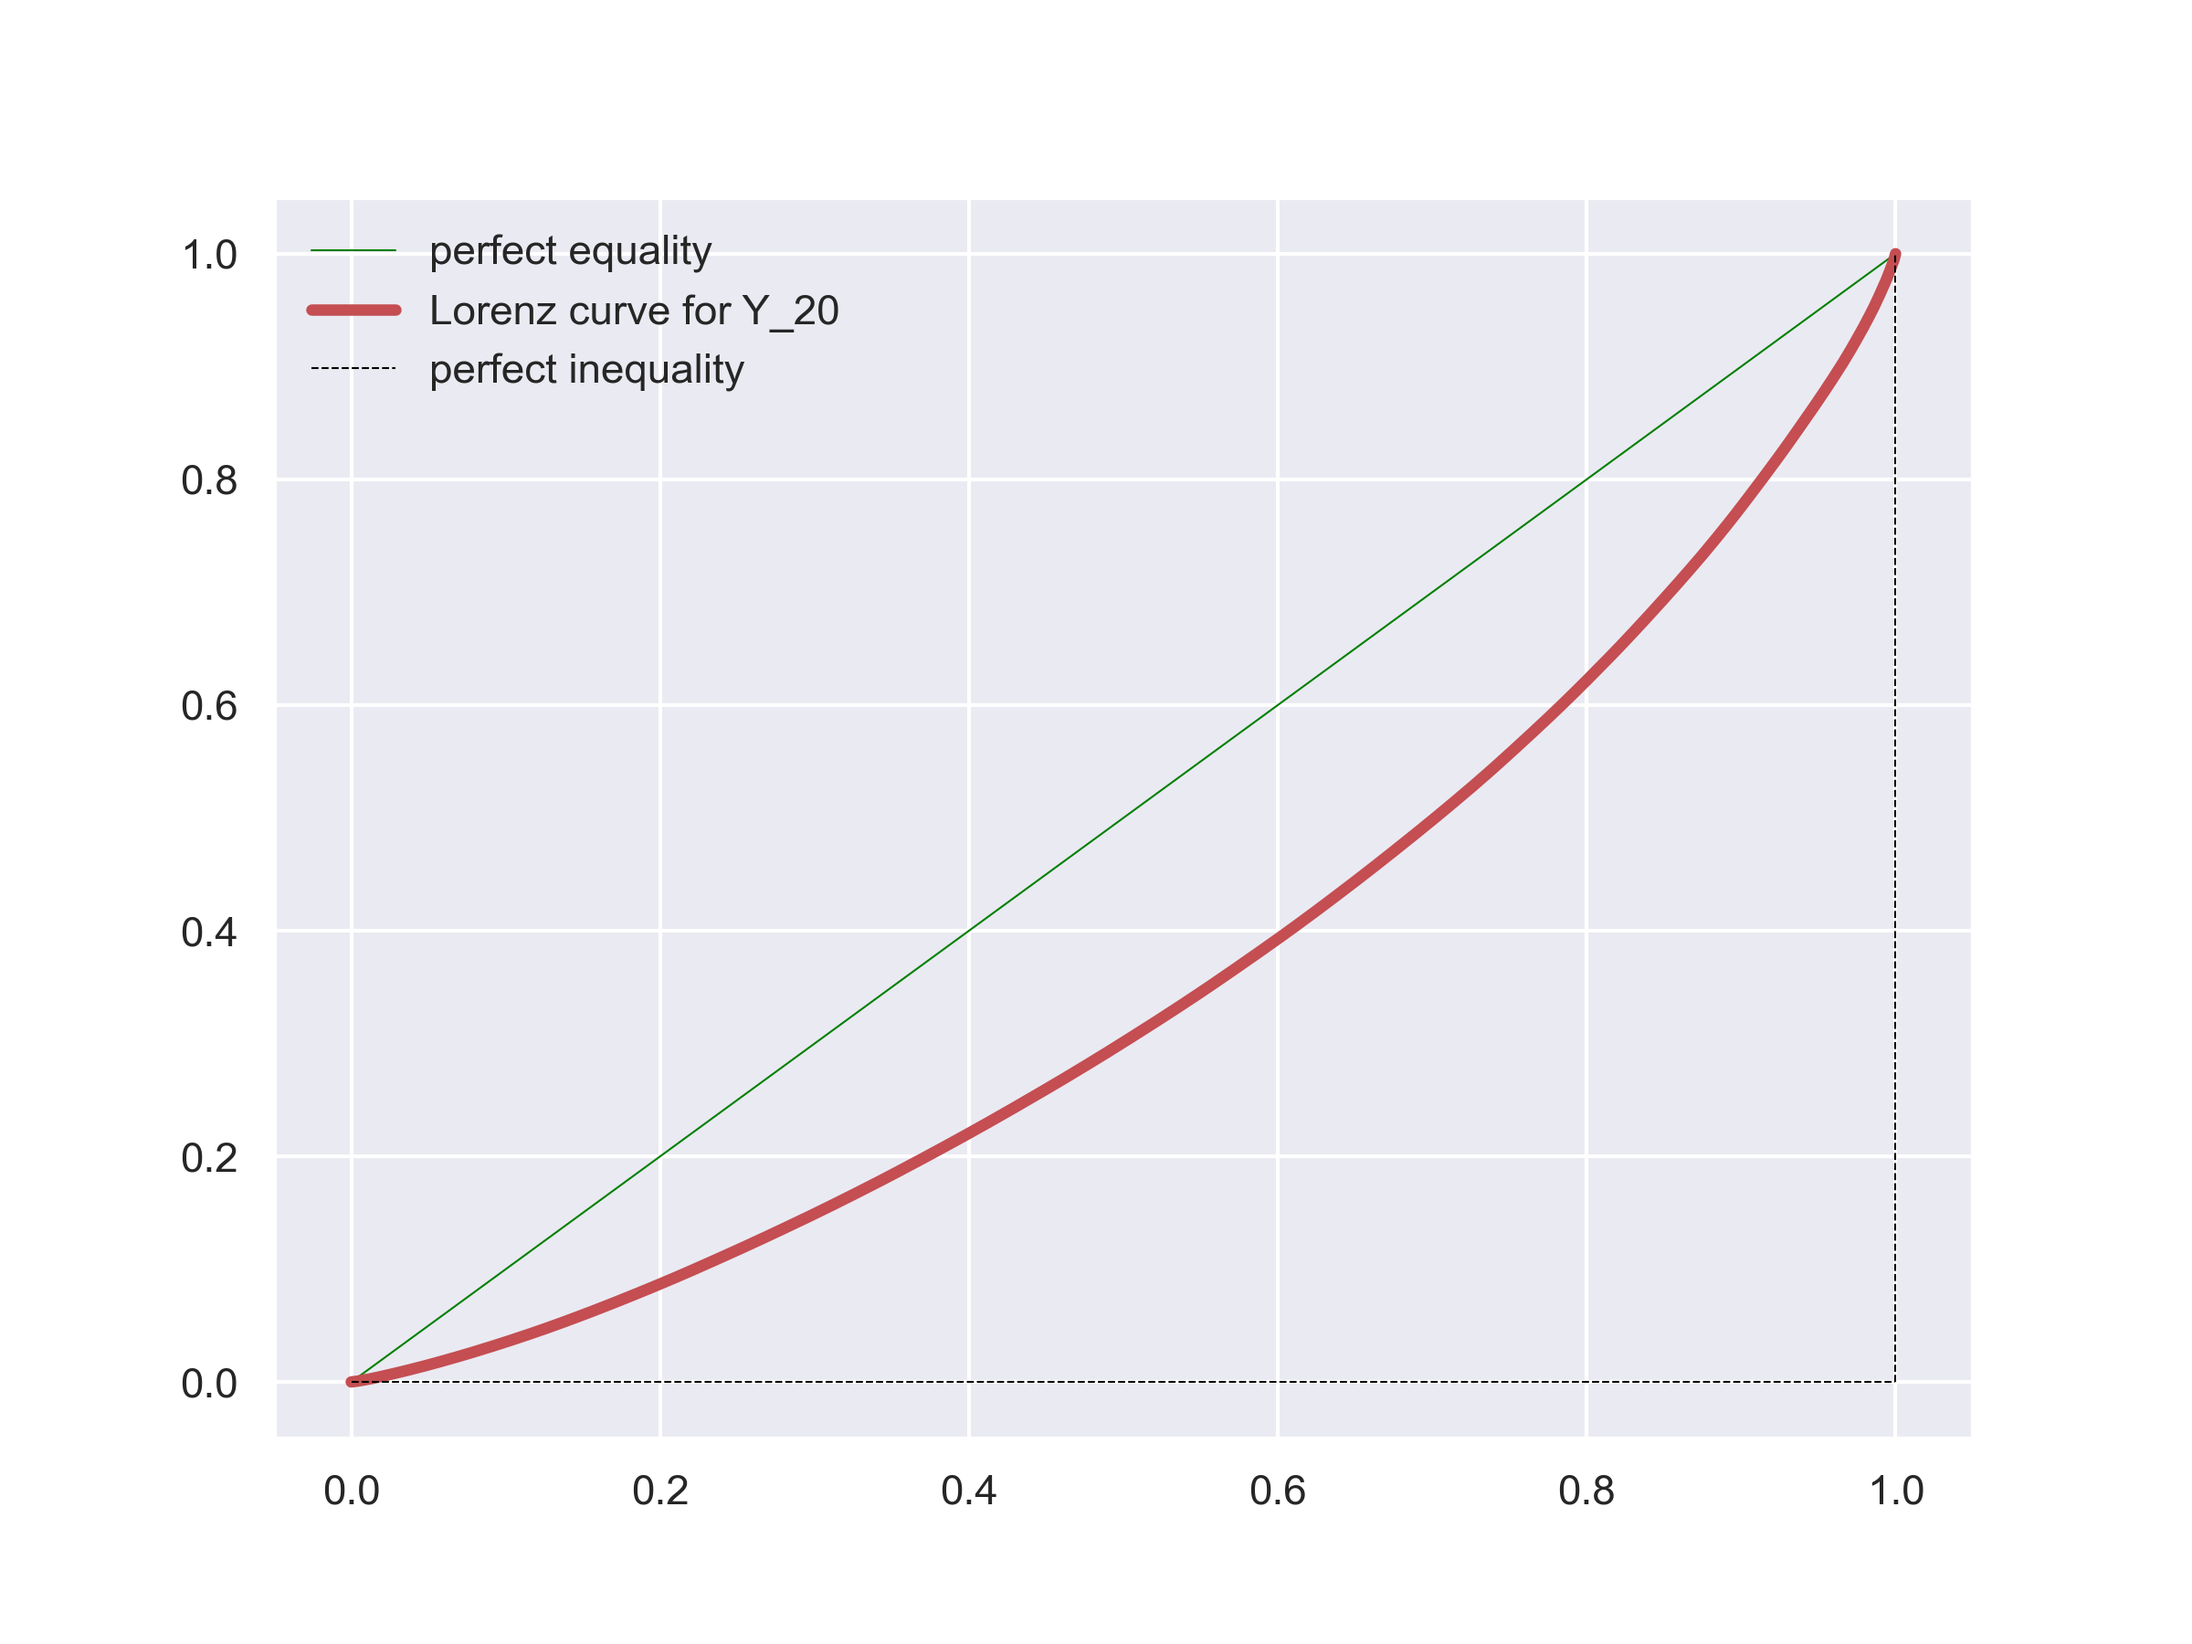
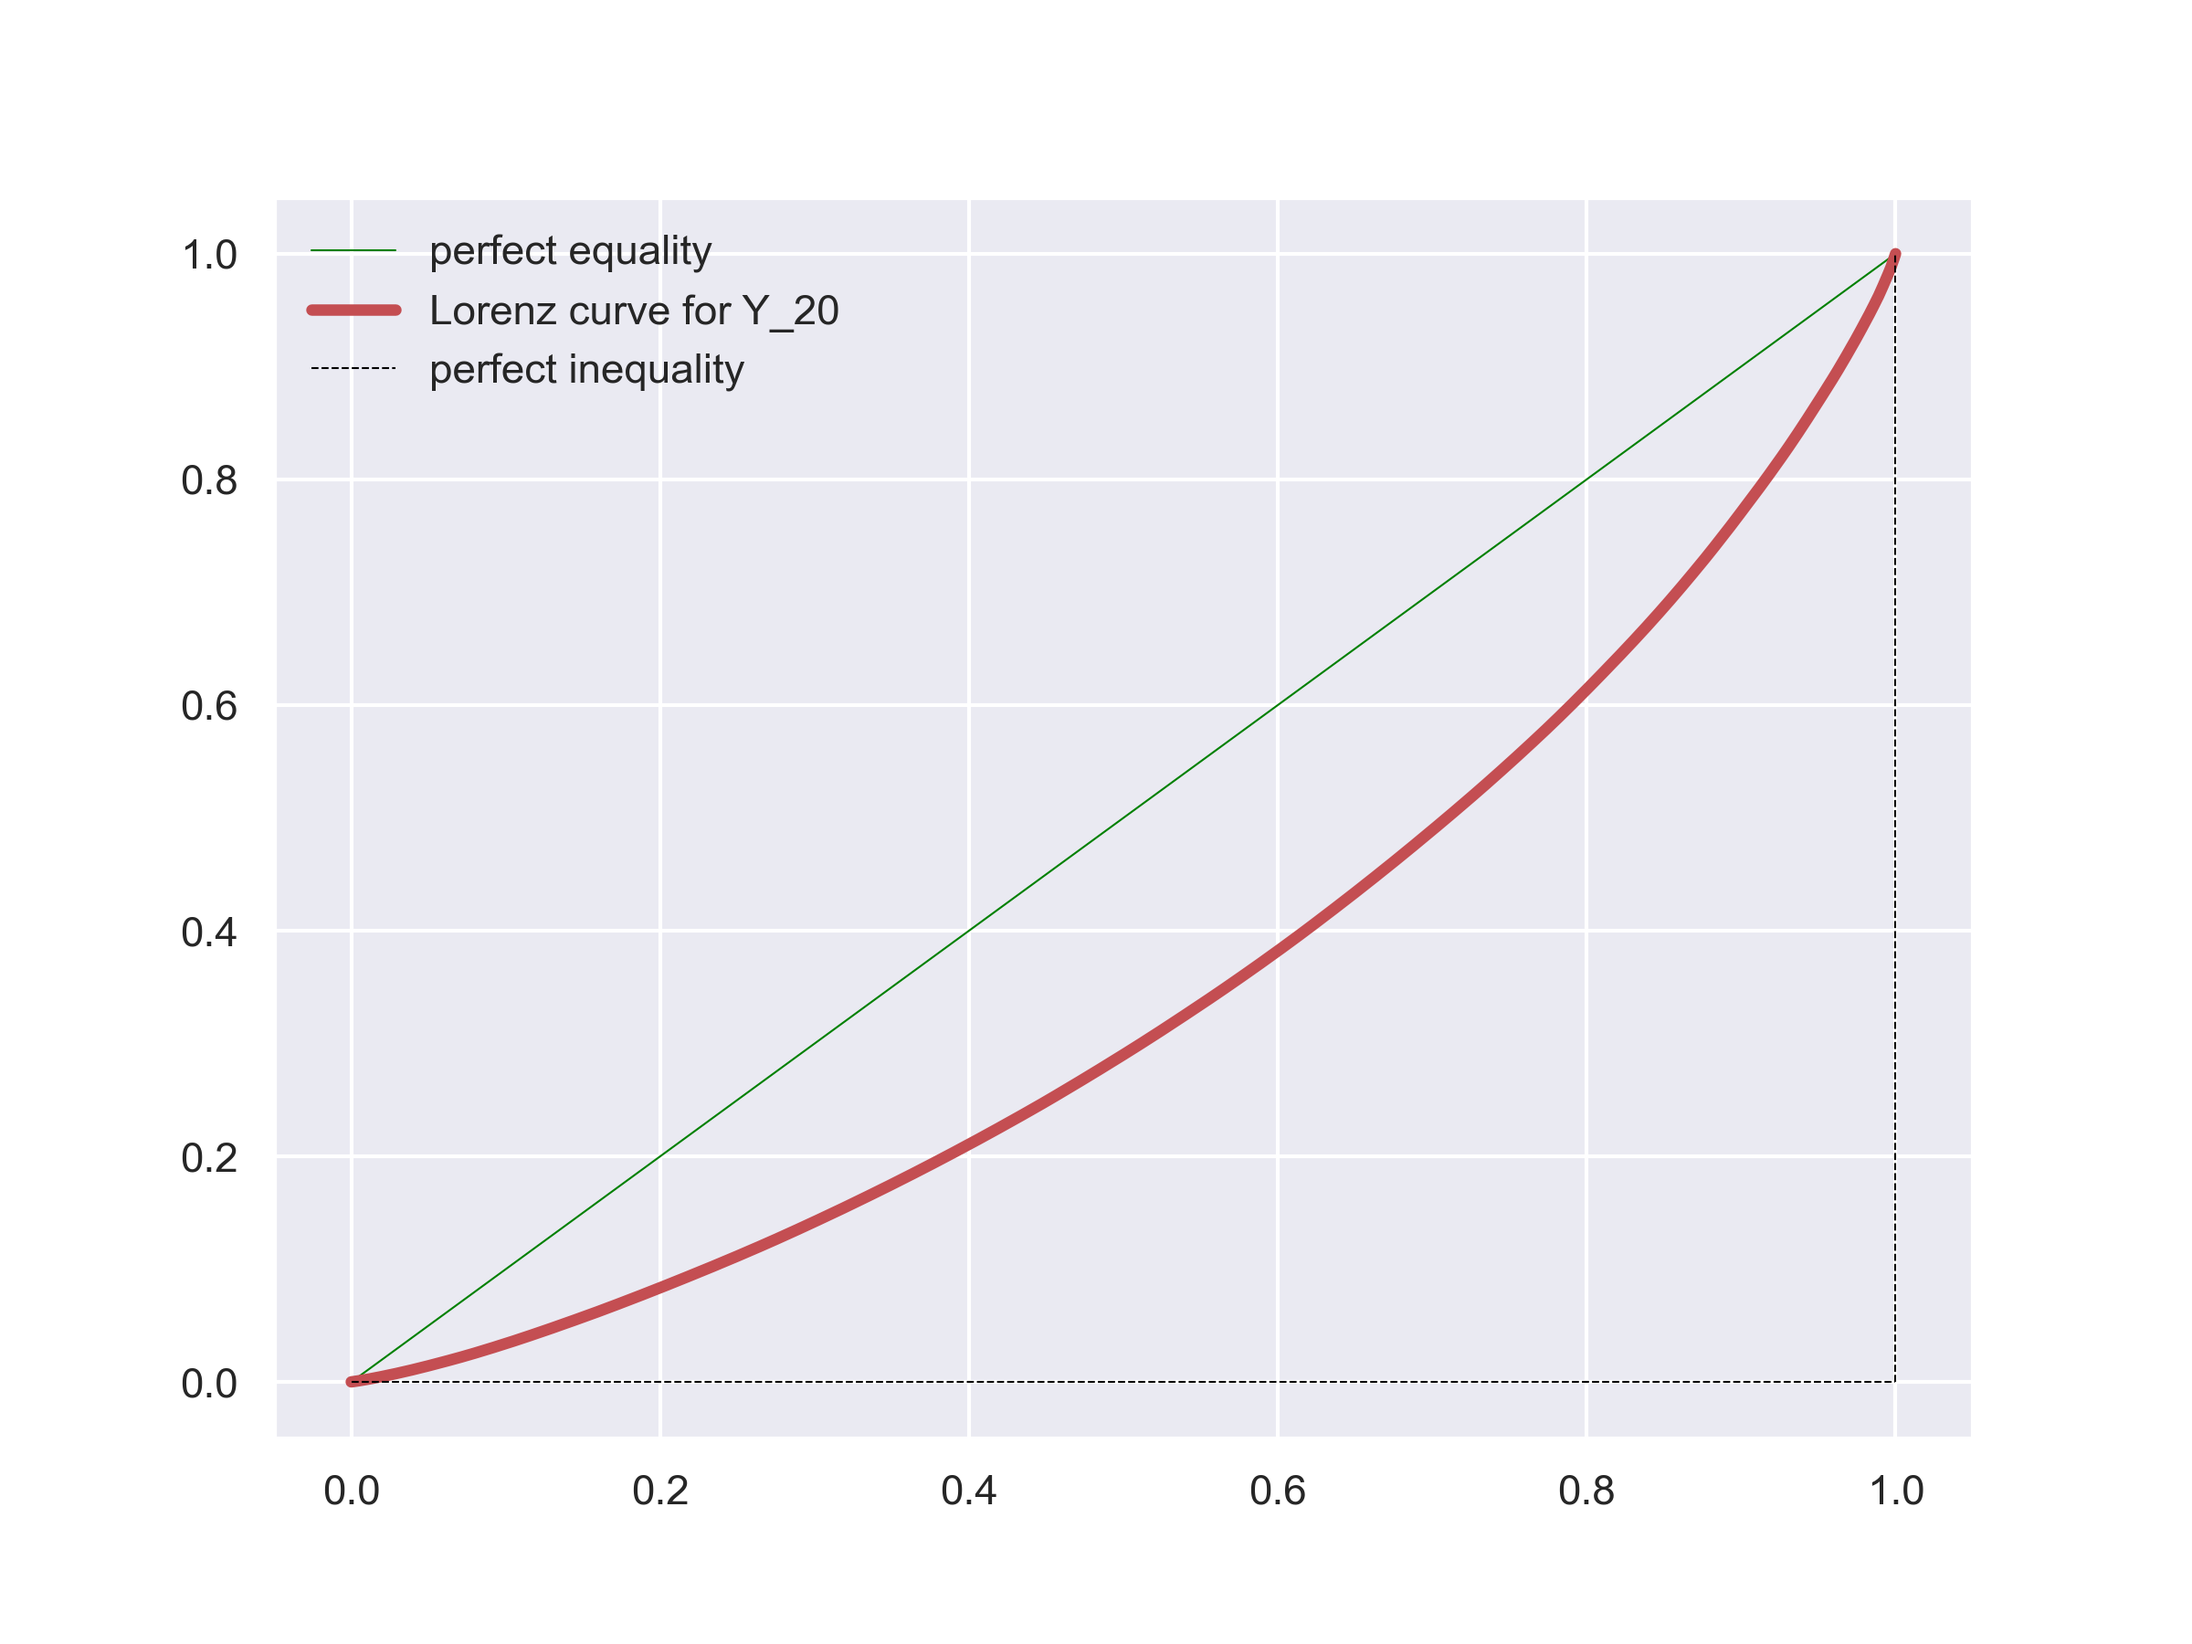
Done up to 1(d)

diff --git a/HW3/mtQuantMacro3.py b/HW3/mtQuantMacro3.py
@@ -100,15 +100,20 @@ class SIMModel:
         # Derive and plot Lorenz curve for earnings itself (not log earning)
         # -+-+-+-+-+-+-+-+-+-+-+-+-+-+-+-+-+-+-+-+-+-+-+-+-+-+-+-+-+-+-+-+-+-+
         # Calculate the Lorenz curve
-        Lorenz_Y20_original = np.cumsum(Y20_samples)/np.sum(Y20_samples)
-        self.Lorenz_Y20_original = Lorenz_Y20_original 
-                
-        # Plot the Lorenz curve
-        x = np.linspace(0, 1, self.n_samples)
-                
+        cum_Y20_share = np.cumsum(Y20_samples)/np.sum(Y20_samples)
+        cum_N_share =  np.linspace(0, 1, self.n_samples)
+        
+        Lorenz_Y20_original = np.array([cum_N_share, cum_Y20_share])
+                        
+        self.Lorenz_Y20_original = Lorenz_Y20_original
+        
+
+        # Plot the Lorenz curve        
         fig1 = plt.figure(figsize=(8, 6))
-        plt.plot(x, x, '-', linewidth = 0.5, color = 'green', label='perfect equality')
-        plt.plot(x, Lorenz_Y20_original, '-r',lw = 3, label='Lorenz curve for Y_20')
+        plt.plot(Lorenz_Y20_original[0], Lorenz_Y20_original[0], 
+                 '-', lw = 0.5, color = 'green', label='perfect equality')
+        plt.plot(Lorenz_Y20_original[0], Lorenz_Y20_original[1],
+                 '-r', lw = 3, label='Lorenz curve for Y_20')
         plt.hlines(0, 0, 1, color='black', linewidth = 0.5, 
                    linestyles='--', label='perfect inequality')
         plt.vlines(1, 0, 1, color='black', linewidth = 0.5, 
@@ -139,26 +144,15 @@ class SIMModel:
         # -+-+-+-+-+-+-+-+-+-+-+-+-+-+-+-+-+-+-+-+-+-+-+-+-+-+-+-+-+-+-+-+-+-+
         # Compute the Lorenz curve based on grid points 
         # -+-+-+-+-+-+-+-+-+-+-+-+-+-+-+-+-+-+-+-+-+-+-+-+-+-+-+-+-+-+-+-+-+-+
-        m20_filtered = np.array(m20)[np.array(m20) > 0]
-        Y_grid_filterd = np.array(self.Y_grid)[np.array(m20) > 0]
-        Y_dist_filtered = m20_filtered * Y_grid_filterd
-        
-        # Calculate the Lorenz curve
-        Lorenz_Y20 = np.cumsum(Y_dist_filtered)/np.sum(Y_dist_filtered)
-        Lorenz_Y20 = np.insert(Lorenz_Y20, 0 , 0.0)
-        
+        Lorenz_Y20 = self.discrete_Lorenz(m20)
         self.Lorenz_Y20 = Lorenz_Y20
         
-        # Plot the Lorenz curve        
-        x2 = np.cumsum(m20_filtered)/np.sum(m20_filtered)
-        x2 = np.insert(x2, 0 , 0.0)
-        
-        self.x2 = x2
         fig3 = plt.figure(figsize=(8, 6))
-        plt.plot(x, x, '-', linewidth = 0.5, color = 'green', label='perfect equality')
-        plt.plot(x, Lorenz_Y20_original, color='blue', ls='dashed',
-                 label='Lorenz curve computed in (b)')
-        plt.plot(x2, Lorenz_Y20, '-r', lw = 3, label='Lorenz curve for Y_20')
+        plt.plot(Lorenz_Y20_original[0], Lorenz_Y20_original[0],
+                 '-', linewidth = 0.5, color = 'green', label='perfect equality')
+        plt.plot(Lorenz_Y20_original[0], Lorenz_Y20_original[1],
+                 color='blue', ls='dashed', label='Lorenz curve computed in (b)')
+        plt.plot(Lorenz_Y20[0], Lorenz_Y20[1], '-r', lw = 3, label='Lorenz curve for Y_20')
         plt.hlines(0, 0, 1, color='black', linewidth = 0.5, 
                    linestyles='--', label='perfect inequality')
         plt.vlines(1, 0, 1, color='black', linewidth = 0.5, 
@@ -167,6 +161,69 @@ class SIMModel:
         fig3.savefig('Lorenz_Y20.png', dpi=300)
 
 
+        # -+-+-+-+-+-+-+-+-+-+-+-+-+-+-+-+-+-+-+-+-+-+-+-+-+-+-+-+-+-+-+-+-+-+
+        # Compute the Lorenz curve based on grid points 
+        # -+-+-+-+-+-+-+-+-+-+-+-+-+-+-+-+-+-+-+-+-+-+-+-+-+-+-+-+-+-+-+-+-+-+       
+        n_ages = len(self.age_list)
+        m_mat = np.empty((n_ages, self.n_grids))
+        
+        trans_mat = np.array(self.trans_mat)
+        m_mat[0, :] = m20
+        
+        m_a = np.array(m20).reshape(1, -1)
+        
+        for a in range(n_ages-1):
+            m_a_1 = m_a @ trans_mat
+            m_mat[a+1, :] = m_a_1.flatten()
+            m_a = deepcopy(m_a_1)
+        self.m_mat = m_mat
+        
+        # group for ages 20-25
+        y_20_25 = np.sum(m_mat[0:5, :], axis=0)
+        Lorenz_Y20_25 = self.discrete_Lorenz(y_20_25)
+        
+        # group for ages 40-45
+        y_40_45 = np.sum(m_mat[20:25, :], axis=0)
+        Lorenz_Y40_45 = self.discrete_Lorenz(y_40_45)
+        
+        # group for ages 60-65
+        y_60_65 = np.sum(m_mat[40:45, :], axis=0)
+        Lorenz_Y60_65 = self.discrete_Lorenz(y_60_65)
+        
+        fig4 = plt.figure(figsize=(8, 6))
+        plt.plot(Lorenz_Y20_original[0], Lorenz_Y20_original[0],
+                 '-', linewidth = 0.5, color = 'green', label='perfect equality')
+        plt.plot(Lorenz_Y20_25[0], Lorenz_Y20_25[1],
+                 color='blue', ls='dashed', label='Ages 20-25')
+        plt.plot(Lorenz_Y40_45[0], Lorenz_Y40_45[1], 'purple', label='ages 40-45')
+        plt.plot(Lorenz_Y60_65[0], Lorenz_Y60_65[1],
+                 color='red', lw=3, label='Ages 60-65')
+        plt.hlines(0, 0, 1, color='black', linewidth = 0.5, 
+                   linestyles='--', label='perfect inequality')
+        plt.vlines(1, 0, 1, color='black', linewidth = 0.5, 
+                   linestyles='--')
+        plt.legend(frameon = False)
+        fig4.savefig('Lorenz_Y20.png', dpi=300)
+        
 
-            
+    def discrete_Lorenz(self, distribution):
+        if type(distribution) is list:
+            distribution = np.array(distribution)
+        
+        dist_filtered = distribution[distribution > 0]
+        Y_grid_filterd = np.array(self.Y_grid)[distribution > 0]
+        
+        # Calculate the cumulative share in terms of earnings
+        Y_contrib_filtered = dist_filtered * Y_grid_filterd
+        cum_Y_share = np.cumsum(Y_contrib_filtered)/np.sum(Y_contrib_filtered)
+        cum_Y_share = np.insert(cum_Y_share, 0 , 0.0)
+        
+        # Calculate the cumulative share in terms of samples
+        cum_N_share = np.cumsum(dist_filtered)/np.sum(dist_filtered)
+        cum_N_share = np.insert(cum_N_share, 0 , 0.0)
+        
+        discrete_Lorenz = np.array([cum_N_share, cum_Y_share])
+        
+        return discrete_Lorenz
+        
         
